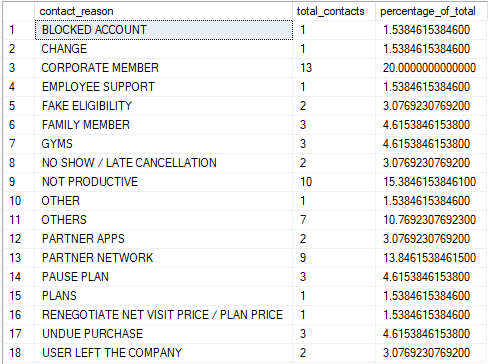
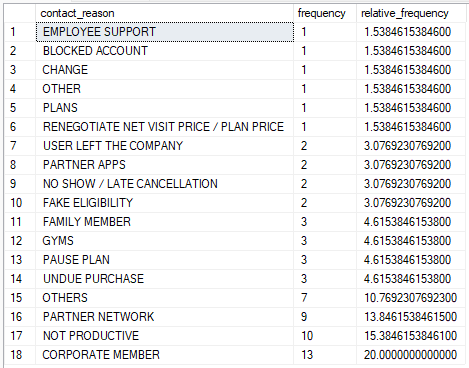
finalizado

diff --git a/README.md b/README.md
@@ -154,13 +154,15 @@ To track this indicator, we can use the query below.
 ```sql
 SELECT
     CX_Contacts.contact_reason,
-    COUNT(CX_Contacts.ticket_id) AS total_contacts,
+    COUNT(CX_Contacts.ticket_id) AS frequency,
     CAST(COUNT(CX_Contacts.ticket_id) AS DECIMAL(10, 2)) /
-    (SELECT COUNT(*) FROM CX_Contacts) * 100 AS percentage_of_total
+    (SELECT COUNT(*) FROM CX_Contacts) * 100 AS relative_frequency
 FROM
     CX_Contacts
 GROUP BY
-    CX_Contacts.contact_reason;
+    CX_Contacts.contact_reason
+ORDER BY
+    relative_frequency;
 ```
 
 The expected result is something similar to the table below.
@@ -239,3 +241,7 @@ ORDER BY
 The expected result is something similar to the table below.
 
 ![contac_rate](img/csat.png)
+
+## Conclusion
+
+With the queries presented, it will be possible to verify and analyze more deeply the reason for the increase in the number of contacts. However, with a larger data volume, it would be possible to conduct a more thorough study. Some indicators can also help us map the problem, such as the categorization of analysts into quartiles, the 12-hour SLA, first contact resolution rate, and some other breakdowns that would allow us to categorize the tickets.
